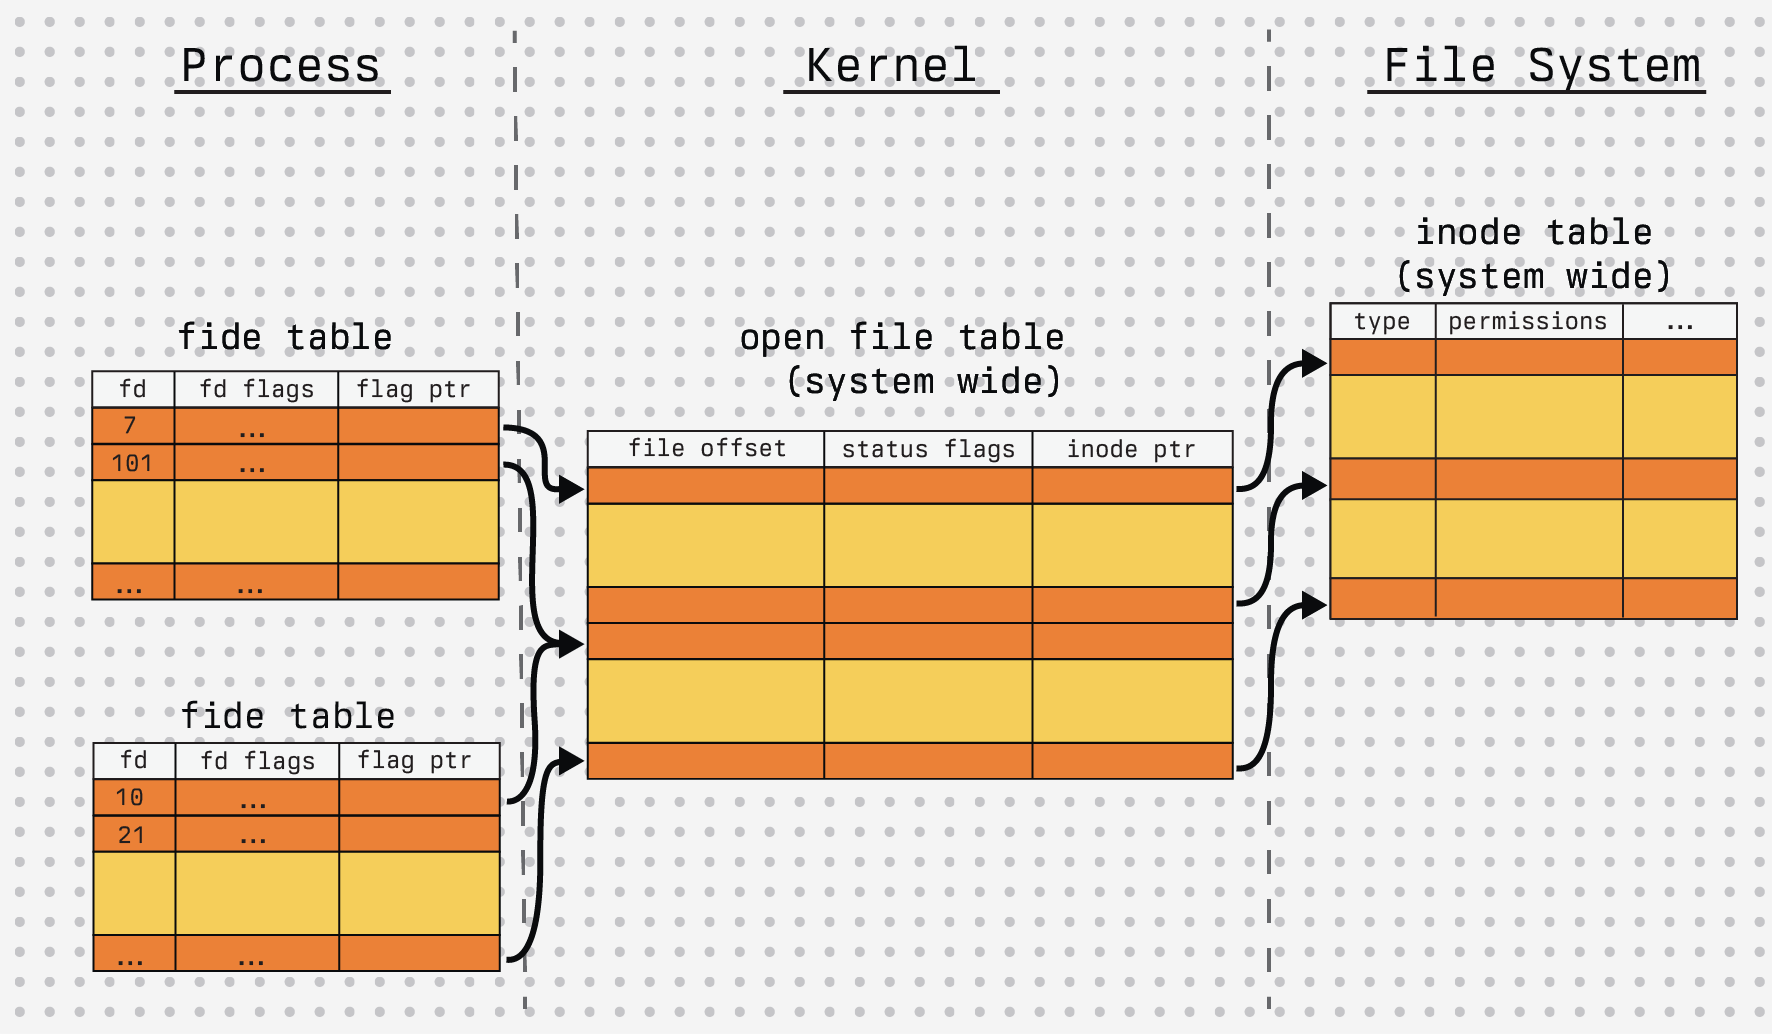
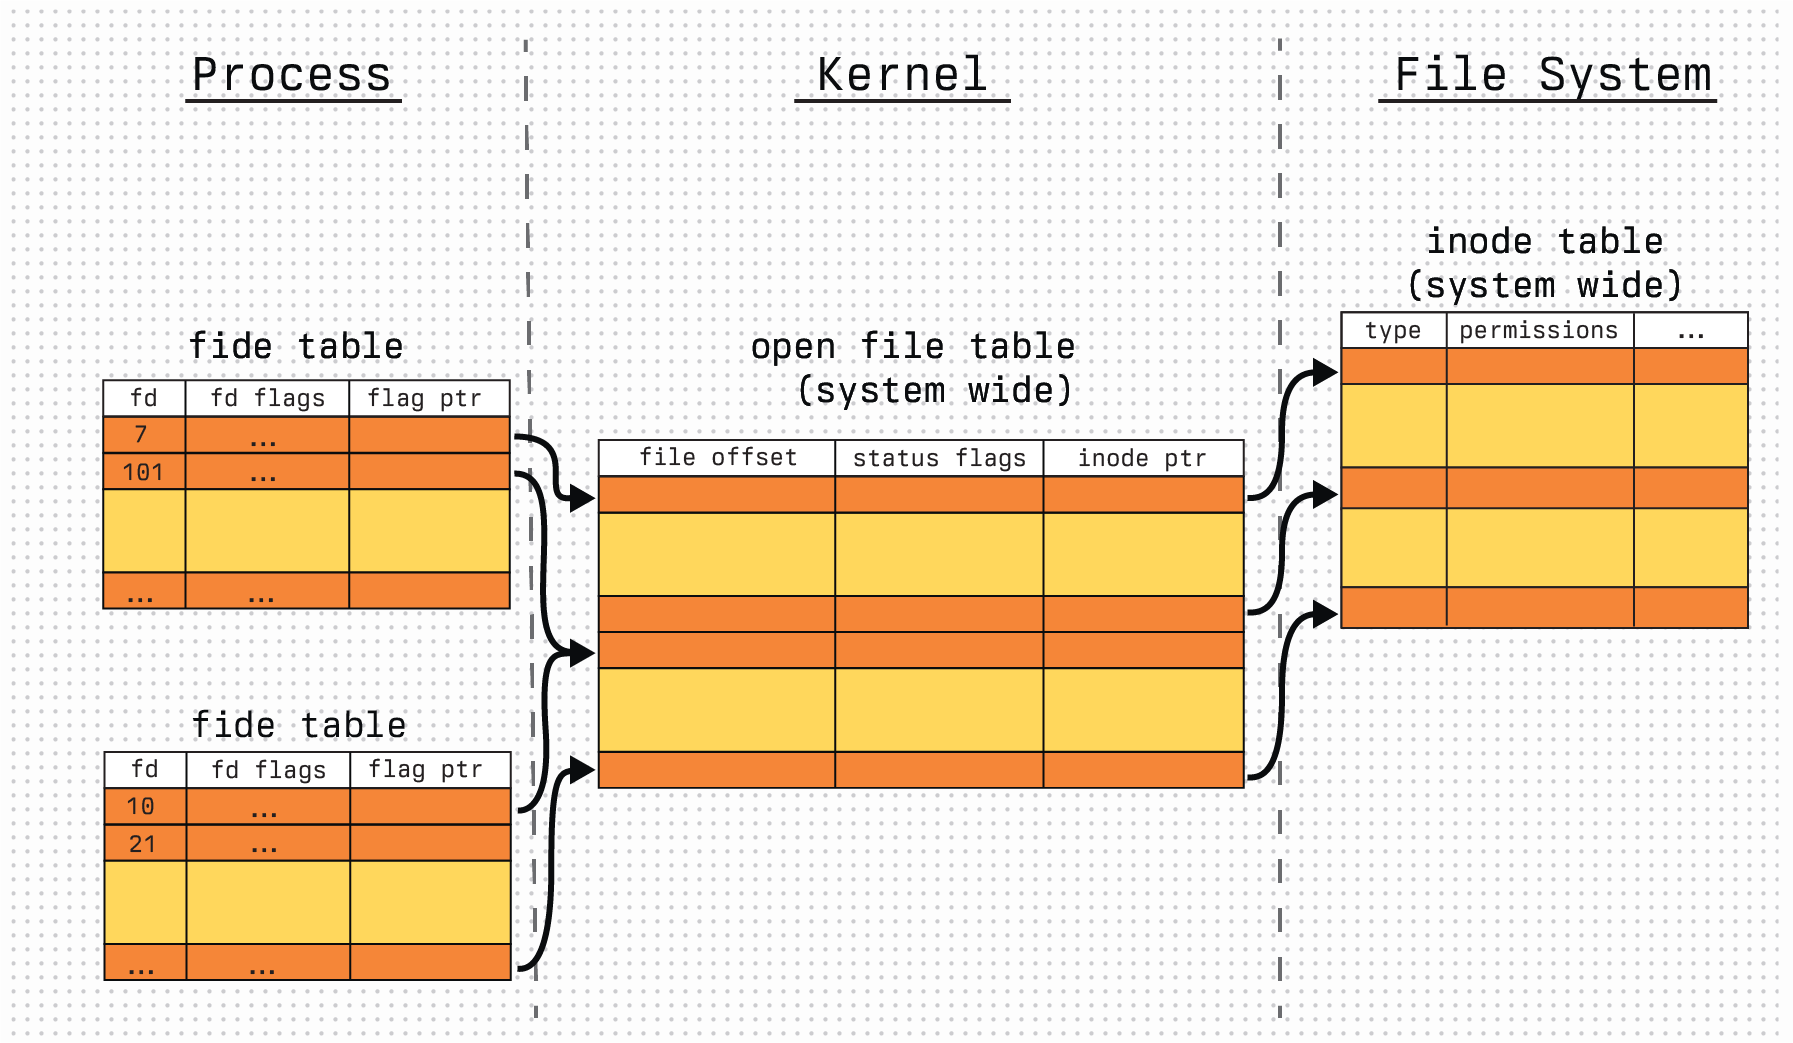
Cleanup header images (#107)

Changed region(s): [[0.0, 0.0, 1.0, 0.9903]]

diff --git a/src/content/blog/libuv.md b/src/content/blog/libuv.md
@@ -7,7 +7,7 @@ description: "One of a series of posts around the inner workings of Node.js, thi
 author: "Mikey Sleevi"
 editors: ["David Gitlen"]
 image:
-  url: "https://fraugsleeves.dev/images/event_loop_header.png"
+  url: "https://fraugsleeves.dev/images/libuv_header.png"
   alt: "A diagram containing the data structures representing linked lists, tables, queues and min-heaps, represented outside of a circle with seven boxes. The boxes have four colors those being yellow, orange, green and red. The loop has several text elements, one for each box representing one of the phases as well as the associated functions repsonsible for inserting and processing data structure elements."
 tags: ["node.js", "event-loop", "asynchronous", "c", "how-it-works"]
 ---
